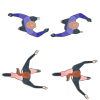
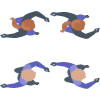
New players, rotating in walking direction

Changed region(s): [[0.0, 0.48, 1.0, 0.99], [0.0, 0.09, 1.0, 0.39]]

diff --git a/scripts/app-bundle.js b/scripts/app-bundle.js
@@ -343,18 +343,16 @@ define('components/players',['exports', 'aurelia-framework', 'aurelia-event-aggr
             });
             this.ea.subscribe('movePlayer', function (response) {
                 _this.movePlayer(response);
-                console.log(response);
+
                 if (_this.areTogether()) {
                     _this.ea.publish('allTogether');
                 }
-                if (response.player.name == 'white') {
-                    _this.adjustScale();
-                }
+
+                _this.adjustScale();
             });
             this.ea.subscribe('restart', function (response) {
                 _this.resetPlayers();
             });
-
             this.players = [];
         }
 
@@ -362,20 +360,17 @@ define('components/players',['exports', 'aurelia-framework', 'aurelia-event-aggr
             this.players = [{
                 name: 'black',
                 step: false,
+                angle: 0,
                 x: 5,
                 y: 5
             }, {
                 name: 'white',
                 step: false,
+                angle: 0,
                 x: 13,
                 y: 13
             }];
             this.adjustScale();
-        };
-
-        PlayersCustomElement.prototype.stepClass = function stepClass(player) {
-            var stepClass = player.step ? 'step ' : 'nostep ';
-            return stepClass + player.name;
         };
 
         PlayersCustomElement.prototype.adjustScale = function adjustScale() {
@@ -439,20 +434,28 @@ define('components/players',['exports', 'aurelia-framework', 'aurelia-event-aggr
             console.log(response);
             var self = this;
             var directions = {
-                'left': [-1, 0],
-                'right': [+1, 0],
                 'up': [0, -1],
-                'down': [0, +1]
+                'right': [+1, 0],
+                'down': [0, +1],
+                'left': [-1, 0]
+            };
+            var angles = {
+                'up': -90,
+                'right': 0,
+                'down': 90,
+                'left': 180
             };
             var move = function move(xy) {
                 if (response.player.name == 'black') {
                     self.players[0].x += xy[0];
                     self.players[0].y += xy[1];
-                    self.players[0].step = !response.player.step;
+                    self.players[0].step = !self.players[0].step;
+                    self.players[0].angle = angles[response.direction];
                 } else {
                     self.players[1].x += xy[0];
                     self.players[1].y += xy[1];
-                    self.players[1].step = !response.player.step;
+                    self.players[1].step = !self.players[1].step;
+                    self.players[1].angle = angles[response.direction];
                 }
             };
             if (directions.hasOwnProperty(response.direction)) {
@@ -550,15 +553,15 @@ define('resources/binding-behaviors/keystrokes',['exports'], function (exports) 
         return Keystrokes;
     }();
 });
-define('text!app.html', ['module'], function(module) { module.exports = "<template>\n    <require from=\"reset.css\"></require>\n    <require from=\"app.css\"></require>\n    <require from=\"components/board\"></require>\n    <h1>Join the pawns</h1>\n    <board></board>\n</template>"; });
+define('text!app.html', ['module'], function(module) { module.exports = "<template>\n    <require from=\"reset.css\"></require>\n    <require from=\"app.css\"></require>\n    <require from=\"components/board\"></require>\n    <h1>Repair the pair</h1>\n    <board></board>\n</template>"; });
 define('text!app.css', ['module'], function(module) { module.exports = "* {\n    margin : 0;\n    border : 0;\n    padding: 0;\n}\n\nbody, html {\n    height          : 100vh;\n    width           : 100vw;\n    overflow        : hidden;\n    display         : flex;\n    flex-direction  : column;\n    align-items     : center;\n    justify-content : center;\n    background-color: #E3B32D;\n}\n\nbody {\n    -webkit-overflow-scrolling: touch;\n}\n\nh1 {\n    font-family   : \"Cabin Sketch\", sans-serif;\n    font-size     : 10vmin;\n    font-style    : normal;\n    font-variant  : small-caps;\n    line-height   : 1;\n    text-align    : center;\n    color         : whitesmoke;\n    text-transform: uppercase;\n    letter-spacing: 2px;\n    color         : #fff;\n}\n\na {\n    outline: none;\n}\n"; });
 define('text!components/board.html', ['module'], function(module) { module.exports = "<template ref=\"board\"\n          touchstart.delegate=\"handleTouch($event)\">\n    <require from=\"components/board.css\"></require>\n    <require from=\"components/maze\"></require>\n    <require from=\"components/players\"></require>\n    <require from=\"components/win\"></require>\n    <gameContainer css=\"transform: translate3d(${gamePosition.x}vmin, ${gamePosition.y}vmin, 0) scale(${scale})\">\n        <maze></maze>\n        <players></players>\n    </gameContainer>\n    <win></win>\n\n</template>"; });
 define('text!reset.css', ['module'], function(module) { module.exports = "/* http://meyerweb.com/eric/tools/css/reset/ \n   v2.0 | 20110126\n   License: none (public domain)\n*/\n\na, abbr, acronym, address, applet, article, aside, audio, b, big, blockquote, body, canvas, caption, center, cite, code, dd, del, details, dfn, div, dl, dt, em, embed, fieldset, figcaption, figure, footer, form, h1, h2, h3, h4, h5, h6, header, hgroup, html, i, iframe, img, ins, kbd, label, legend, li, mark, menu, nav, object, ol, output, p, pre, q, ruby, s, samp, section, small, span, strike, strong, sub, summary, sup, table, tbody, td, tfoot, th, thead, time, tr, tt, u, ul, var, video {\n    margin        : 0;\n    padding       : 0;\n    border        : 0;\n    font-size     : 100%;\n    font          : inherit;\n    vertical-align: baseline;\n}\n/* HTML5 display-role reset for older browsers */\narticle, aside, details, figcaption, figure, footer, header, hgroup, menu, nav, section {\n    display: block;\n}\n\nbody {\n    line-height: 1;\n}\n\nol, ul {\n    list-style: none;\n}\n\nblockquote, q {\n    quotes: none;\n}\n\nblockquote:after, blockquote:before, q:after, q:before {\n    content: '';\n    content: none;\n}\n\ntable {\n    border-collapse: collapse;\n    border-spacing : 0;\n}\n"; });
 define('text!components/maze.html', ['module'], function(module) { module.exports = "<template>\n    <require from=\"components/maze.css\"></require>\n    <div class=\"row\"\n         repeat.for=\"row of cells\">\n        <div class=\"cell\"\n             class.bind=\"wallClass(cell)\"\n             repeat.for=\"cell of row\">\n        </div>\n    </div>\n</template>"; });
 define('text!components/board.css', ['module'], function(module) { module.exports = "board {\n    position          : relative;\n    width             : 80vmin;\n    height            : 80vmin;\n    margin            : 1vmin;\n    overflow          : hidden;\n    -webkit-box-shadow: inset 0 0 10px 0 rgba(0,0,0,.9);\n    box-shadow        : inset 0 0 10px 0 rgba(0,0,0,.9);\n    background-color  : rgba(255,255,255,0.5);\n    border            : 3vmin solid rgba(0,0,0,0);\n}\n\ngameContainer {\n    width           : 128vmin;\n    height          : 128vmin;\n    box-sizing      : border-box;\n    position        : absolute;\n    left            : 0;\n    top             : 0;\n    transform-origin: 0 0 0;\n    transition      : transform 2s ease-in-out;\n    transition-delay: 100;\n    border          : 2px solid #333;\n}\n"; });
-define('text!components/players.html', ['module'], function(module) { module.exports = "<template>\n    <require from=\"components/players.css\"></require>\n    <player repeat.for=\"player of players\"\n            class=\"${stepClass(player)}\"\n            css=\"transform: translate3d(${player.x*6.4}vmin, ${player.y*6.4}vmin, 0)\">${player.step}</player>\n</template>"; });
+define('text!components/players.html', ['module'], function(module) { module.exports = "<template>\n    <require from=\"components/players.css\"></require>\n    <player repeat.for=\"player of players\"\n            class=\"${player.name} ${player.step ? 'step' : 'noStep'} ${lastDirection}\"\n            css=\"transform: translate3d(${player.x*6.4}vmin, ${player.y*6.4}vmin, 0) rotate(${player.angle}deg)\"></player>\n</template>"; });
 define('text!components/win.html', ['module'], function(module) { module.exports = "<template class=\"${showWin ? 'show' : ''}\">\n    <require from=\"components/win.css\"></require>\n    <h2>Yo!<br>you<br>did it!<br>\n        <a href=\"javascript:void(0);\"\n           click.delegate=\"restart()\"\n           touchstart.delegate=\"restart()\">Again?</a>\n    </h2>\n</template>"; });
 define('text!components/maze.css', ['module'], function(module) { module.exports = "maze {\n    width         : 100%;\n    height        : 100%;\n    position      : absolute;\n    top           : 0;\n    display       : flex;\n    flex-direction: column;\n}\n\n.row {\n    display       : flex;\n    flex-direction: row;\n    flex          : 1 0 auto;\n}\n\n.cell {\n    flex    : 1 0 auto;\n    position: relative;\n    border  : 4px dashed rgba(96,52,24,0.7);\n    margin  : -2px;\n}\n\n.cell::before {\n    content     : '';\n    position    : absolute;\n    top         : -4px;\n    left        : -4px;\n    z-index     : -1;\n    width       : 100%;\n    height      : 100%;\n    border      : 4px solid transparent;\n    opacity     : .4;\n    border-color: inherit;\n}\n\n.wall0000 {\n    border-color: transparent transparent transparent transparent;\n}\n\n.wall0001 {\n    border-color: transparent transparent transparent rgba(96,52,24,0.7);\n}\n\n.wall0010 {\n    border-color: transparent transparent rgba(96,52,24,0.7) transparent;\n}\n\n.wall0011 {\n    border-color: transparent transparent rgba(96,52,24,0.7) rgba(96,52,24,0.7);\n}\n\n.wall0100 {\n    border-color: transparent rgba(96,52,24,0.7) transparent transparent;\n}\n\n.wall0101 {\n    border-color: transparent rgba(96,52,24,0.7) transparent rgba(96,52,24,0.7);\n}\n\n.wall0110 {\n    border-color: transparent rgba(96,52,24,0.7) rgba(96,52,24,0.7) transparent;\n}\n\n.wall0111 {\n    border-color: transparent rgba(96,52,24,0.7) rgba(96,52,24,0.7) rgba(96,52,24,0.7);\n}\n\n.wall1000 {\n    border-color: rgba(96,52,24,0.7) transparent transparent transparent;\n}\n\n.wall1001 {\n    border-color: rgba(96,52,24,0.7) transparent transparent rgba(96,52,24,0.7);\n}\n\n.wall1010 {\n    border-color: rgba(96,52,24,0.7) transparent rgba(96,52,24,0.7) transparent;\n}\n\n.wall1011 {\n    border-color: rgba(96,52,24,0.7) transparent rgba(96,52,24,0.7) rgba(96,52,24,0.7);\n}\n\n.wall1100 {\n    border-color: rgba(96,52,24,0.7) rgba(96,52,24,0.7) transparent transparent;\n}\n\n.wall1101 {\n    border-color: rgba(96,52,24,0.7) rgba(96,52,24,0.7) transparent rgba(96,52,24,0.7);\n}\n\n.wall1110 {\n    border-color: rgba(96,52,24,0.7) rgba(96,52,24,0.7) rgba(96,52,24,0.7) transparent;\n}\n\n.wall1111 {\n    border-color: rgba(96,52,24,0.7) rgba(96,52,24,0.7) rgba(96,52,24,0.7) rgba(96,52,24,0.7);\n}\n"; });
-define('text!components/players.css', ['module'], function(module) { module.exports = "players {\n    display : block;\n    position: relative;\n    top     : 0;\n    width   : 100%;\n    height  : 100%;\n}\n\nplayer {\n    position         : absolute;\n    left             : .25vmin;\n    top              : .25vmin;\n    width            : 5.5vmin;\n    height           : 5.5vmin;\n    border-radius    : 3vmin;\n    box-sizing       : border-box;\n    transition       : transform .2s ease-in-out;\n    background-image : url(\"../img/poppetjes.png\");\n    background-repeat: no-repeat;\n    background-size  : 200%;\n}\n\nplayer.black {\n    background-position: 0 0;\n}\n\nplayer.black.step {\n    background-position: 100% 0;\n}\n\nplayer.white {\n    background-position: 0 100%;\n}\n\nplayer.white.step {\n    background-position: 100% 100%;\n}\n"; });
+define('text!components/players.css', ['module'], function(module) { module.exports = "players {\n    display : block;\n    position: relative;\n    top     : 0;\n    width   : 100%;\n    height  : 100%;\n}\n\nplayer {\n    position         : absolute;\n    left             : .25vmin;\n    top              : .25vmin;\n    width            : 5.5vmin;\n    height           : 5.5vmin;\n    border-radius    : 3vmin;\n    box-sizing       : border-box;\n    transition       : transform .2s ease-in-out;\n    background-image : url(\"../img/poppetjes.png\");\n    background-repeat: no-repeat;\n    background-size  : 200%;\n}\n\nplayer.black {\n    background-position: 0 0;\n}\n\nplayer.black.step {\n    background-position: 100% 0;\n}\n\nplayer.white {\n    background-position: 0 100%;\n}\n\nplayer.white.step {\n    background-position: 100% 100%;\n}\n\nplayer.up {\n    -webkit-transform: rotate(-90deg);\n    -ms-transform    : rotate(-90deg);\n    transform        : rotate(-90deg);\n}\n\nplayer.right {\n    -webkit-transform: rotate(0);\n    -ms-transform    : rotate(0);\n    transform        : rotate(0);\n}\n\nplayer.down {\n    -webkit-transform: rotate(90deg);\n    -ms-transform    : rotate(90deg);\n    transform        : rotate(90deg);\n}\n\nplayer.left {\n    -webkit-transform: rotate(180deg);\n    -ms-transform    : rotate(180deg);\n    transform        : rotate(180deg);\n}\n"; });
 define('text!components/win.css', ['module'], function(module) { module.exports = "win {\n    display                    : flex;\n    justify-content            : center;\n    align-items                : center;\n    height                     : 100%;\n    background-color           : rgba(0, 0, 0, .8);\n    opacity                    : 0;\n    transition                 : opacity .5s ease-out;\n    -webkit-transform          : translateZ(0);\n    -webkit-perspective        : 1000;\n    -webkit-backface-visibility: hidden;\n}\n\nwin h2 {\n    font-family                : \"Cabin Sketch\", sans-serif;\n    font-size                  : 15vmin;\n    font-style                 : normal;\n    font-variant               : small-caps;\n    line-height                : 10vmin;\n    text-align                 : center;\n    color                      : whitesmoke;\n    padding-top                : 5vmin;\n    transform                  : scale(0.0001);\n    transition                 : transform .5s ease-out;\n    -webkit-transform          : translateZ(0);\n    -webkit-perspective        : 1000;\n    -webkit-backface-visibility: hidden;\n}\n\nwin h2 a {\n    font-size      : 10vmin;\n    color          : whitesmoke;\n    cursor         : pointer;\n    text-decoration: none;\n    margin-top     : 10vmin;\n    pointer-events : none;\n}\n\nwin.show {\n    opacity: 1;\n}\n\nwin.show h2 {\n    transform: scale(1);\n}\n\nwin.show h2 a {\n    pointer-events: auto;\n}\n"; });
 //# sourceMappingURL=app-bundle.js.map

diff --git a/src/components/players.js b/src/components/players.js
@@ -19,18 +19,18 @@ export class PlayersCustomElement {
         });
         this.ea.subscribe('movePlayer', response => {
             this.movePlayer(response);
-            console.log(response);
+            // console.log(response);
             if (this.areTogether()) {
                 this.ea.publish('allTogether');
             }
-            if (response.player.name == 'white') {
-                this.adjustScale();
-            }
+            // No need for doing this for every player
+            // if (response.player.name == 'white') {
+            this.adjustScale();
+            // }
         });
         this.ea.subscribe('restart', response => {
             this.resetPlayers();
         });
-
         this.players = [];
     }
 
@@ -39,22 +39,19 @@ export class PlayersCustomElement {
             {
                 name: 'black',
                 step: false,
+                angle: 0,
                 x: 5,
                 y: 5
             },
             {
                 name: 'white',
                 step: false,
+                angle: 0,
                 x: 13,
                 y: 13
             }
         ];
         this.adjustScale();
-    }
-
-    stepClass(player) {
-        let stepClass = (player.step) ? 'step ' : 'nostep ';
-        return stepClass + player.name;
     }
 
     adjustScale() {
@@ -110,20 +107,28 @@ export class PlayersCustomElement {
         console.log(response);
         let self = this;
         let directions = {
-            'left': [-1, 0],
-            'right': [+1, 0],
             'up': [0, -1],
-            'down': [0, +1]
+            'right': [+1, 0],
+            'down': [0, +1],
+            'left': [-1, 0]
         };
+        let angles = {
+            'up': -90,
+            'right': 0,
+            'down': 90,
+            'left': 180
+        }
         let move = function (xy) {
             if (response.player.name == 'black') {
                 self.players[0].x += xy[0];
                 self.players[0].y += xy[1];
-                self.players[0].step = !response.player.step;
+                self.players[0].step = !self.players[0].step;
+                self.players[0].angle = angles[response.direction]
             } else {
                 self.players[1].x += xy[0];
                 self.players[1].y += xy[1];
-                self.players[1].step = !response.player.step;
+                self.players[1].step = !self.players[1].step;
+                self.players[1].angle = angles[response.direction]
             }
         };
         if (directions.hasOwnProperty(response.direction)) {

diff --git a/src/components/players.css b/src/components/players.css
@@ -35,3 +35,27 @@ player.white {
 player.white.step {
     background-position: 100% 100%;
 }
+
+player.up {
+    -webkit-transform: rotate(-90deg);
+    -ms-transform    : rotate(-90deg);
+    transform        : rotate(-90deg);
+}
+
+player.right {
+    -webkit-transform: rotate(0);
+    -ms-transform    : rotate(0);
+    transform        : rotate(0);
+}
+
+player.down {
+    -webkit-transform: rotate(90deg);
+    -ms-transform    : rotate(90deg);
+    transform        : rotate(90deg);
+}
+
+player.left {
+    -webkit-transform: rotate(180deg);
+    -ms-transform    : rotate(180deg);
+    transform        : rotate(180deg);
+}

diff --git a/src/components/players.html b/src/components/players.html
@@ -1,6 +1,6 @@
 <template>
     <require from="components/players.css"></require>
     <player repeat.for="player of players"
-            class="${stepClass(player)}"
-            css="transform: translate3d(${player.x*6.4}vmin, ${player.y*6.4}vmin, 0)">${player.step}</player>
+            class="${player.name} ${player.step ? 'step' : 'noStep'} ${lastDirection}"
+            css="transform: translate3d(${player.x*6.4}vmin, ${player.y*6.4}vmin, 0) rotate(${player.angle}deg)"></player>
 </template>

diff --git a/src/app.html b/src/app.html
@@ -2,6 +2,6 @@
     <require from="reset.css"></require>
     <require from="app.css"></require>
     <require from="components/board"></require>
-    <h1>Join the pawns</h1>
+    <h1>Repair the pair</h1>
     <board></board>
 </template>
